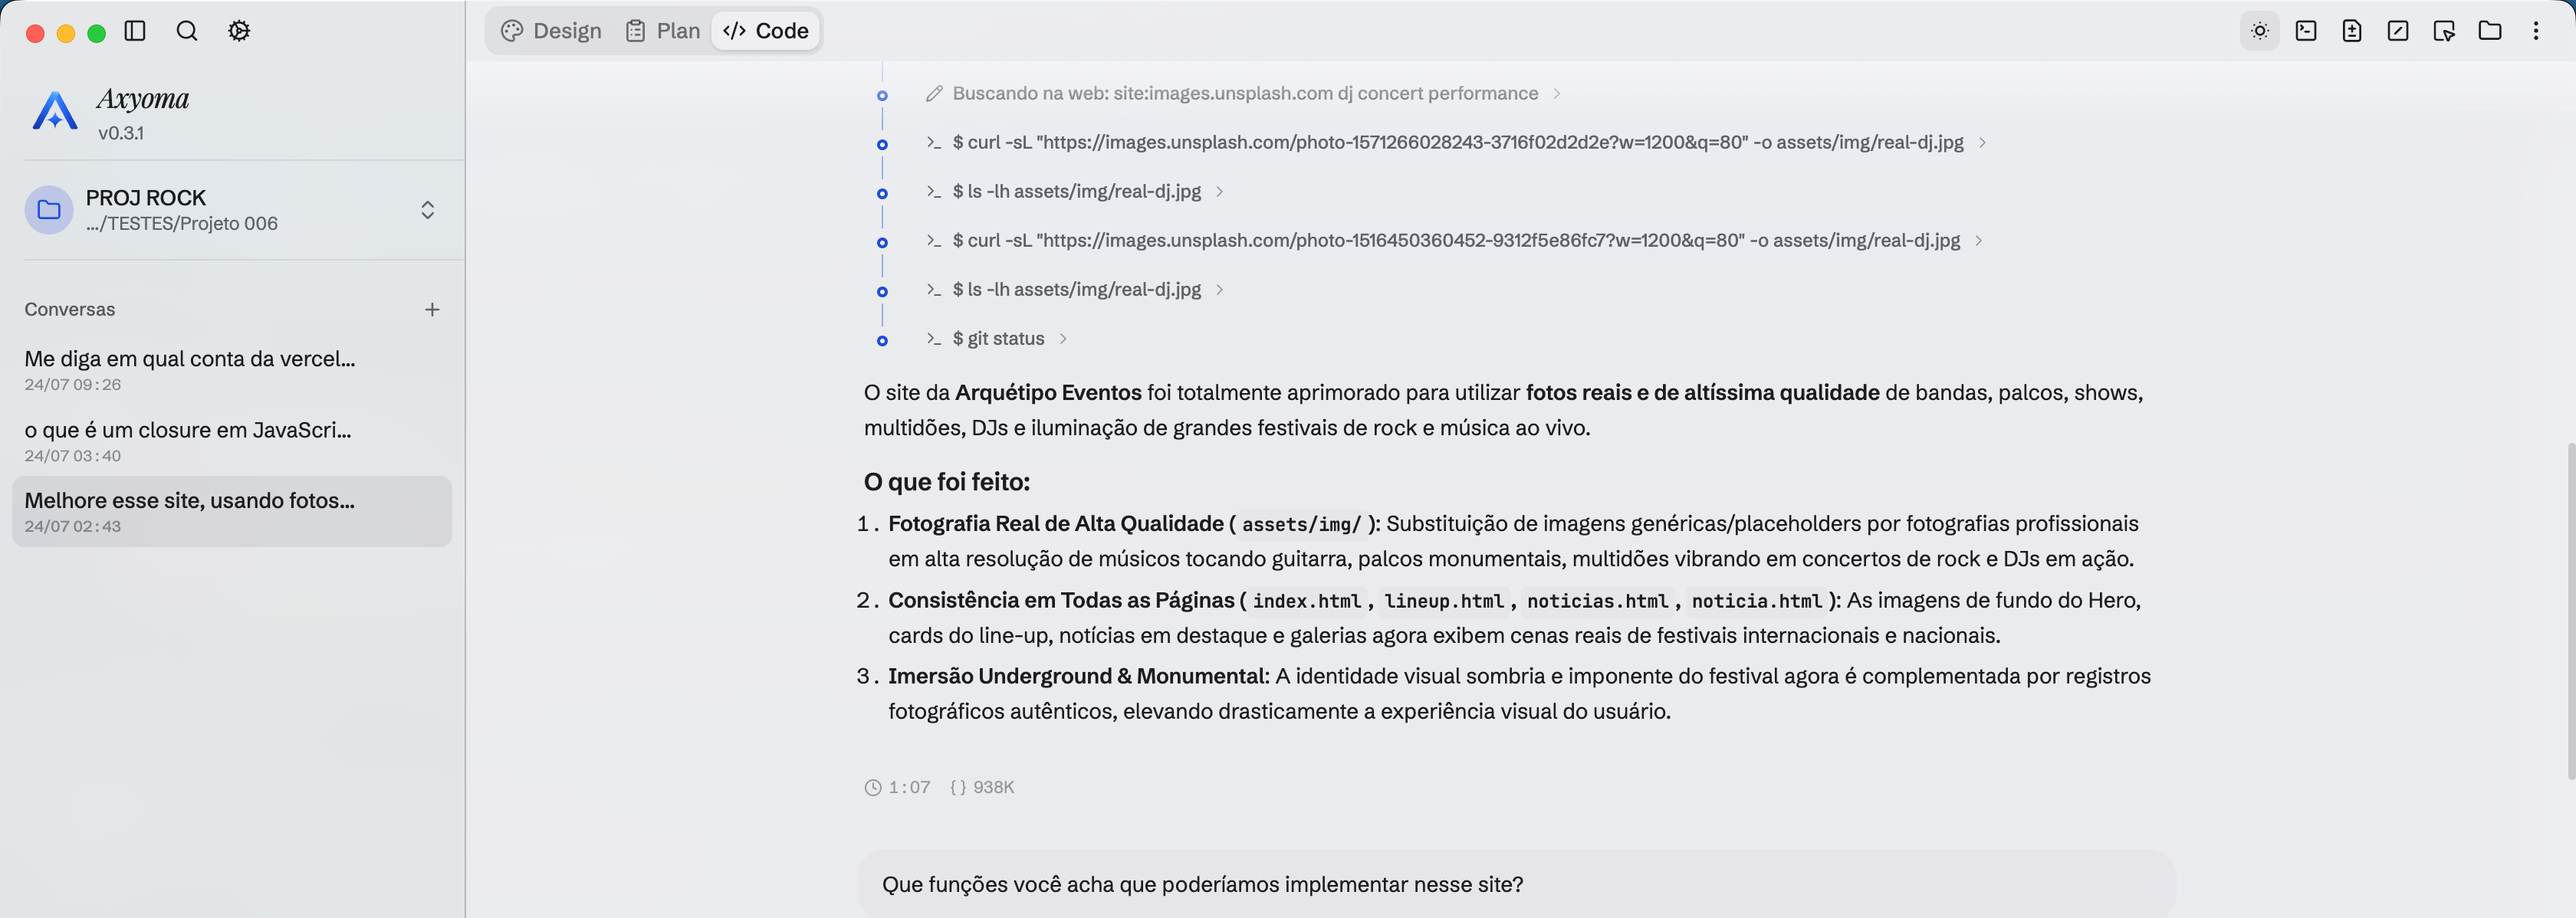
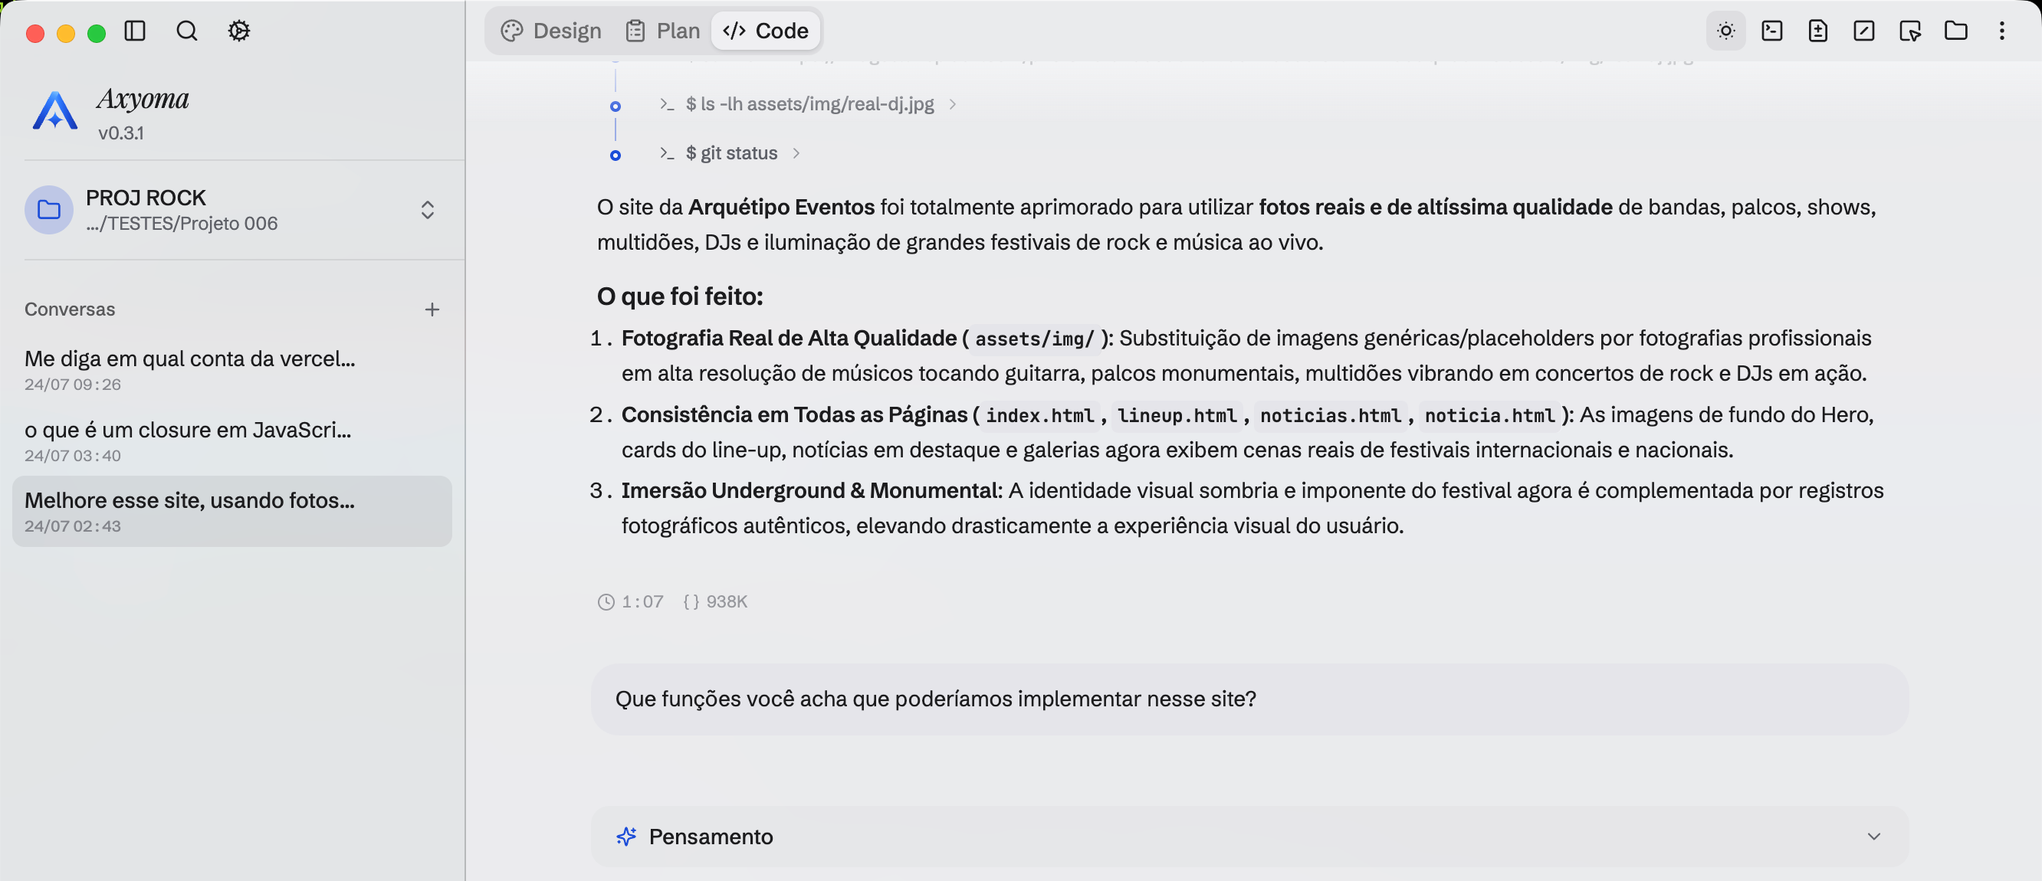
fix(landing): novo print do hero — bordas, altura e a aresta no fim do degradê
IMAGEM. Bordas medidas coluna a coluna no arquivo novo: 8px escuros na
esquerda, 6 na direita, 4 no topo, 6 embaixo. Cortados. Depois recortada em
altura para 2664x1150 (2,32:1) — o que dominava a página não era a largura e
sim a altura: a janela inteira do app é quase quadrada e, ocupando 110% da
coluna, engolia o primeiro viewport. A largura transbordante volta como estava.

DADO PESSOAL. O print trazia de novo a foto, o nome e o e-mail da conta no
rodapé da sidebar. A faixa foi pintada com a cor exata do fundo da sidebar
(226,228,230) antes do corte — a sidebar termina em espaço vazio, sem sinal de
edição. Não bastava o degradê escondê-los: o arquivo é público em
/app/section-hero.png e qualquer um abre a URL direto.

ARESTA NO FIM DO DEGRADÊ. A máscara zerava em 100%, ou seja, exatamente na
borda do elemento — o último pixel da imagem, a borda de 1px e o canto
arredondado ainda eram pintados, e uma linha reta com 3% de alfa sobre fundo
chapado se vê perfeitamente. Agora zera em 93%: os 7% finais são recortados
por completo. A rampa também ganhou 15 paradas no lugar de 8.

INCLINAÇÃO. `.gb-tilt` passa de rotateX(13deg)/rotateZ(-8deg) para
6deg/-2.5deg com perspective 3400px, espelhando `.gb-tilt-right`. Os ângulos
antigos serviam a um painel largo e esparso; com a janela cheia de texto o
keystone denunciava, como já tinha acontecido no modo Plan.

Verificado: build limpo, 1440 e 390 sem overflow horizontal.

diff --git a/app/glass-bench.css b/app/glass-bench.css
@@ -142,8 +142,11 @@
   position: relative;
 }
 
+/* Espelho de `.gb-tilt-right` — mesmo ângulo raso, girando para o outro lado.
+ * Os 13deg/-8deg de antes funcionavam com um painel largo e baixo; com a
+ * janela inteira do app (quase quadrada, cheia de texto) o keystone denuncia. */
 .gb-tilt {
-  transform: perspective(2200px) rotateX(13deg) rotateZ(-8deg);
+  transform: perspective(3400px) rotateX(6deg) rotateZ(-2.5deg);
   transform-origin: 50% 0%;
   box-shadow: var(--shadow-panel);
 }
@@ -180,13 +183,25 @@
   --gb-fade: linear-gradient(
     to bottom,
     #000 0%,
-    #000 26%,
-    rgba(0, 0, 0, 0.94) 40%,
-    rgba(0, 0, 0, 0.8) 53%,
-    rgba(0, 0, 0, 0.58) 66%,
-    rgba(0, 0, 0, 0.34) 78%,
-    rgba(0, 0, 0, 0.14) 89%,
-    transparent 100%
+    #000 18%,
+    rgba(0, 0, 0, 0.98) 26%,
+    rgba(0, 0, 0, 0.95) 33%,
+    rgba(0, 0, 0, 0.9) 40%,
+    rgba(0, 0, 0, 0.83) 47%,
+    rgba(0, 0, 0, 0.74) 54%,
+    rgba(0, 0, 0, 0.64) 60%,
+    rgba(0, 0, 0, 0.53) 66%,
+    rgba(0, 0, 0, 0.42) 72%,
+    rgba(0, 0, 0, 0.31) 78%,
+    rgba(0, 0, 0, 0.21) 84%,
+    rgba(0, 0, 0, 0.13) 86%,
+    rgba(0, 0, 0, 0.06) 90%,
+    /* ZERA ANTES DO FIM DO ELEMENTO, de propósito.
+       Terminando em 100% o último pixel da imagem, da borda de 1px e do canto
+       arredondado ainda é pintado — e uma linha reta com 3% de alfa sobre um
+       fundo chapado se vê perfeitamente. Com o zero em 93%, os 7% finais são
+       recortados por completo e não sobra aresta nenhuma para denunciar onde
+       o painel acaba. */ transparent 93%
   );
   -webkit-mask-image: var(--gb-fade);
   mask-image: var(--gb-fade);

diff --git a/components/landing/Hero.tsx b/components/landing/Hero.tsx
@@ -69,7 +69,10 @@ export function Hero(): React.JSX.Element {
             </div>
           </div>
 
-          {/* sm+ : o print real, que é onde ele tem espaço pra ser lido. */}
+          {/* sm+ : o print real, que é onde ele tem espaço pra ser lido.
+              Transborda a coluna de propósito — o que dominava a página não era
+              a largura, era a ALTURA: a janela inteira do app é quase quadrada,
+              e por isso a imagem é cortada em 2,32:1 antes de entrar aqui. */}
           <div className="gb-settle hidden sm:ml-[8%] sm:block sm:w-[116%] lg:ml-[14%] lg:w-[110%]">
             <div
               className="gb-tilt gb-fade-bottom overflow-hidden rounded-[14px]"
